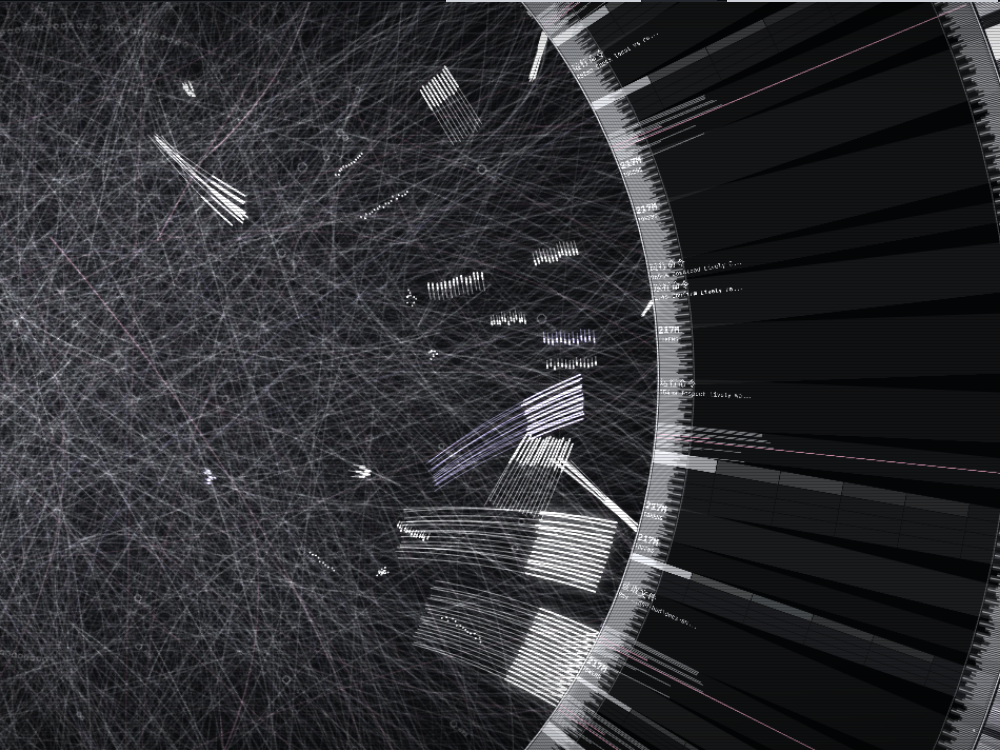
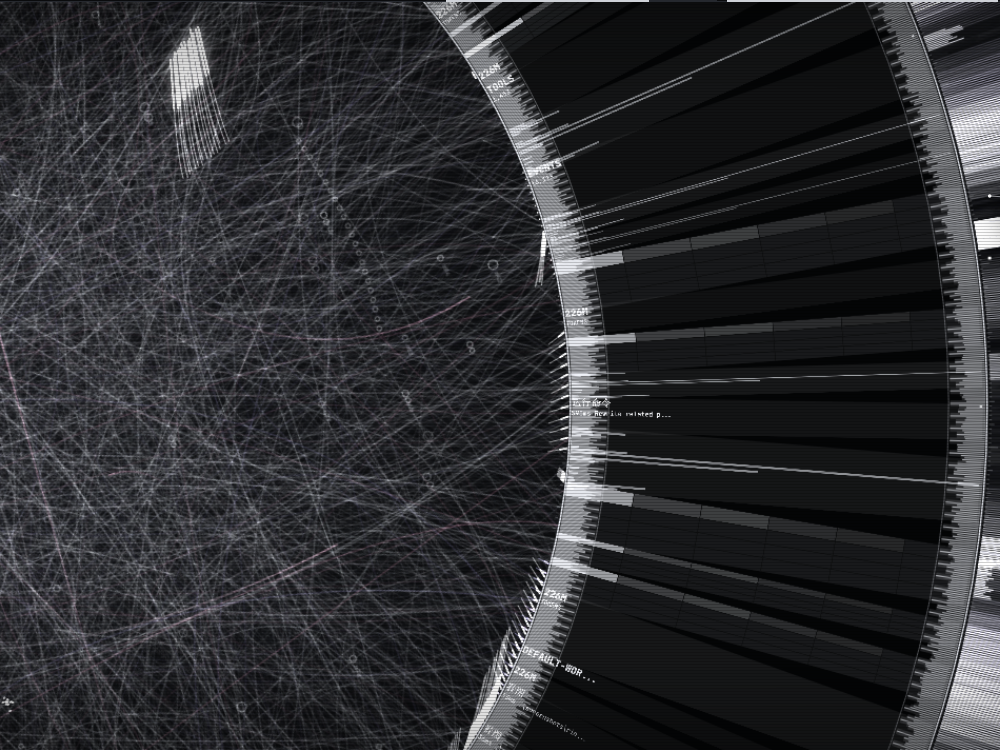
feat(docs): auto-trigger card activity in docs-shots.mjs; refresh screenshots (v1.30.4)

diff --git a/CHANGELOG.md b/CHANGELOG.md
@@ -1,12 +1,21 @@
 # 更新日志（CHANGELOG）
 
-当前版本：**v1.30.3**（2026-11-13）
+当前版本：**v1.30.4**（2026-11-13）
 仓库：<https://github.com/ACyCar1o/dsh-hud-haloflux>
 
 > 版本号以仓库根目录 [`VERSION`](VERSION) 为准。
 > 升级方式：`git pull` 后重启后台（`dsh-hud\stack.ps1`），或直接覆盖解压 `DSH-HUD-portable.zip`。
 
 ---
+
+## v1.30.4 — 截图脚本自动化（2026-11-13）
+
+- `dsh-hud/docs-shots.mjs` 重写：
+  - 截图期间自动向 `http://127.0.0.1:7788/hook` 发送 `PreToolUse` 事件，**自动制造标题卡活动**，
+    保证 overview / panels / ring / GIF 里始终有卡片，不必手动去点 Codex。
+  - 一次运行直接产出 `overview-3.png`、`panels-3.png`、`ring-3.png`（CDP clip 裁切，不再手工裁剪）与 GIF 帧目录。
+  - 支持 `CDP_PORT` / `HUD_URL` 环境变量覆盖端口与服务地址；失败时自动停止定时器。
+- 用新脚本重拍了全部截图与 GIF（含多平台标题卡、模型名与连线）。
 
 ## v1.30.3 — 文档专业化与截图/GIF 更新（2026-11-13）
 
